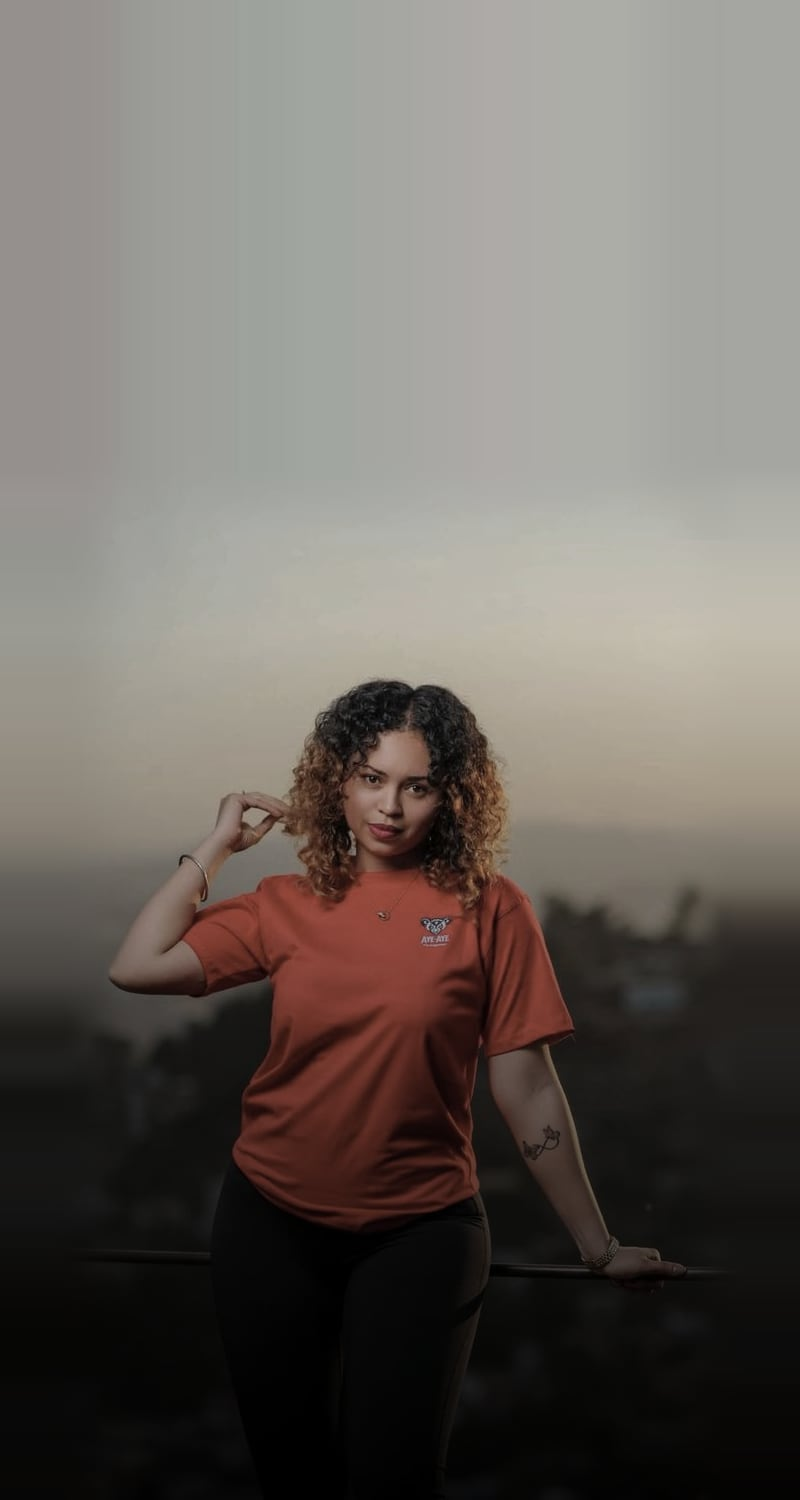
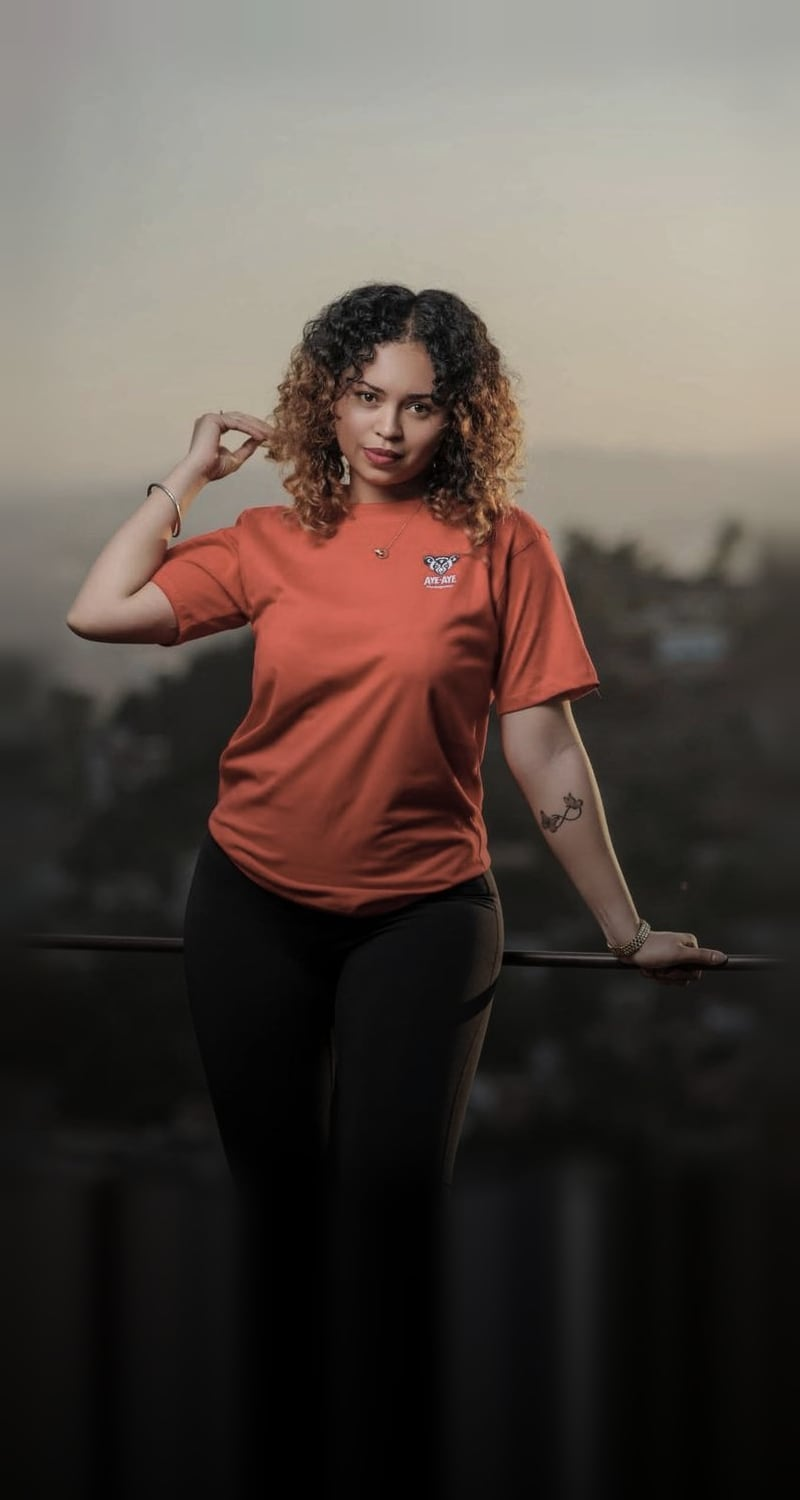
Bannière : bouton remis ; femmes remontées sur mobile et tablette
- « Découvrir nos collections » remis sur tous les écrans (la marque
  préfère finalement le garder).
- Images mobile des diapositives 2 et 3 (aussi utilisées sur tablette en
  portrait) : photo agrandie, tête vers 19 % de la hauteur comme sur
  l'image de l'homme ; la marge passe sous la photo (option « haut »).

diff --git a/public/assets/css/aye-aye.css b/public/assets/css/aye-aye.css
@@ -1967,7 +1967,7 @@ a.aye-moyen:hover .aye-moyen-valeur {
      d'origine. Le bouton ouvre le menu deroulant du template (Accueil ·
      Modeles · Collections · A propos · Contact) ;
    - accueil : en-tete transparent sur un hero plein ecran bord a bord (image
-     portrait dediee), texte en bas du hero (sans bouton) ;
+     portrait dediee), texte et bouton blanc pleine largeur en bas du hero ;
      l'en-tete redevient blanc des la fin du hero (aye-aye.js) ou quand le
      menu est ouvert ;
    - sous le hero : titre centre et onglets centres, sur deux lignes si besoin.
@@ -2146,6 +2146,20 @@ a.aye-moyen:hover .aye-moyen-valeur {
     width: calc(100% - 40px);
     transform: translateX(-50%);
     text-align: center;
+  }
+  /* bouton blanc pleine largeur */
+  .main-banner .left-content .main-border-button a {
+    display: block;
+    padding: 14px 20px;
+    background-color: #fff;
+    border-color: #fff;
+    color: #2a2a2a;
+    text-transform: uppercase;
+    letter-spacing: 1px;
+  }
+  .main-banner .left-content .main-border-button a:hover {
+    background-color: transparent;
+    color: #fff;
   }
 
   /* --- Titre et onglets sous le hero ------------------------------------------- */

diff --git a/app/page.js b/app/page.js
@@ -70,7 +70,9 @@ export default function PageAccueil() {
                         Des vêtements 100{' '}% coton qui racontent Madagascar{' '}: sa
                         nature, ses symboles, son âme.
                       </span>
-                      {/* pas de bouton : retire a la demande de la marque */}
+                      <div className="main-border-button">
+                        <a href={chemin('/collections/')}>Découvrir nos collections</a>
+                      </div>
                     </div>
                   </CarrouselBanniere>
                 </div>

diff --git a/CLAUDE.md b/CLAUDE.md
@@ -126,7 +126,7 @@ Three things in it are load-bearing:
 **Mobile version (under 768 px), modelled on BazarChic at the owner's request.** It lives in the last block of `aye-aye.css`.
 - The header is 64 px, fixed, white. From left to right: the logo, then search and account (24 px icons), then the menu button (burger) at the far right, where the template has it. The burger opens the template's own dropdown with the five text links, toggled by custom.js. The owner tried a bar of menu icons and a burger left of the logo, and settled on this. Below 375 px the logo shrinks to 50 px; the header's `.container` is full width on mobile, otherwise Bootstrap's 540 px container pushes the logo towards the middle between 576 and 767 px. The template forces `min-height: 80px` on `.header-area.header-sticky`, and that is overridden too.
 - On the home page the header gets `aye-entete-sur-hero` and is transparent over a full-screen, edge-to-edge hero, with the white logo (`.aye-logo-clair`), white icons and a white burger. It turns white as soon as the hero is scrolled past or the menu is opened. `aye-aye.js` adds `aye-entete-opaque` for this, because custom.js only reacts after the whole `#top` block, which on mobile also contains the tabs under the hero.
-- The hero uses a dedicated portrait image (`banniere/principale-mobile.jpg`) through `<picture>`, shown in `cover`. The figure has side margins, so only backdrop can be trimmed. The text sits at the bottom. The banner has **no button** on any screen size (the owner had « Découvrir nos collections » removed).
+- The hero uses a dedicated portrait image (`banniere/principale-mobile.jpg`) through `<picture>`, shown in `cover`. The figure has side margins, so only backdrop can be trimmed. The text sits at the bottom with a full-width white button. The banner keeps its « Découvrir nos collections » button on every screen size (the owner asked to remove it, then to keep it). On the mobile images of slides 2 and 3 the photo is as large as the width allows (`echelle` 0.8) and placed so the head sits at about 19 % of the height like the man's (`haut`: share of the free margin above the photo, the rest is filled below from the photo's bottom row).
 - Under the hero: a centred title and tabs (`.aye-onglets-mobile`, a `col-12` hidden from 768 px up, so the desktop row is untouched). The tabs wrap onto centred lines instead of scrolling sideways: the owner saw « ACCESSOIR… » cut at the screen edge as a bug.
 - Footer: the logo is centred.
 - Contact page: each contact line is one tappable row (icon in a light round badge, small grey label above the value), and the two buttons are full width. The owner found the earlier label/value columns too crowded.
